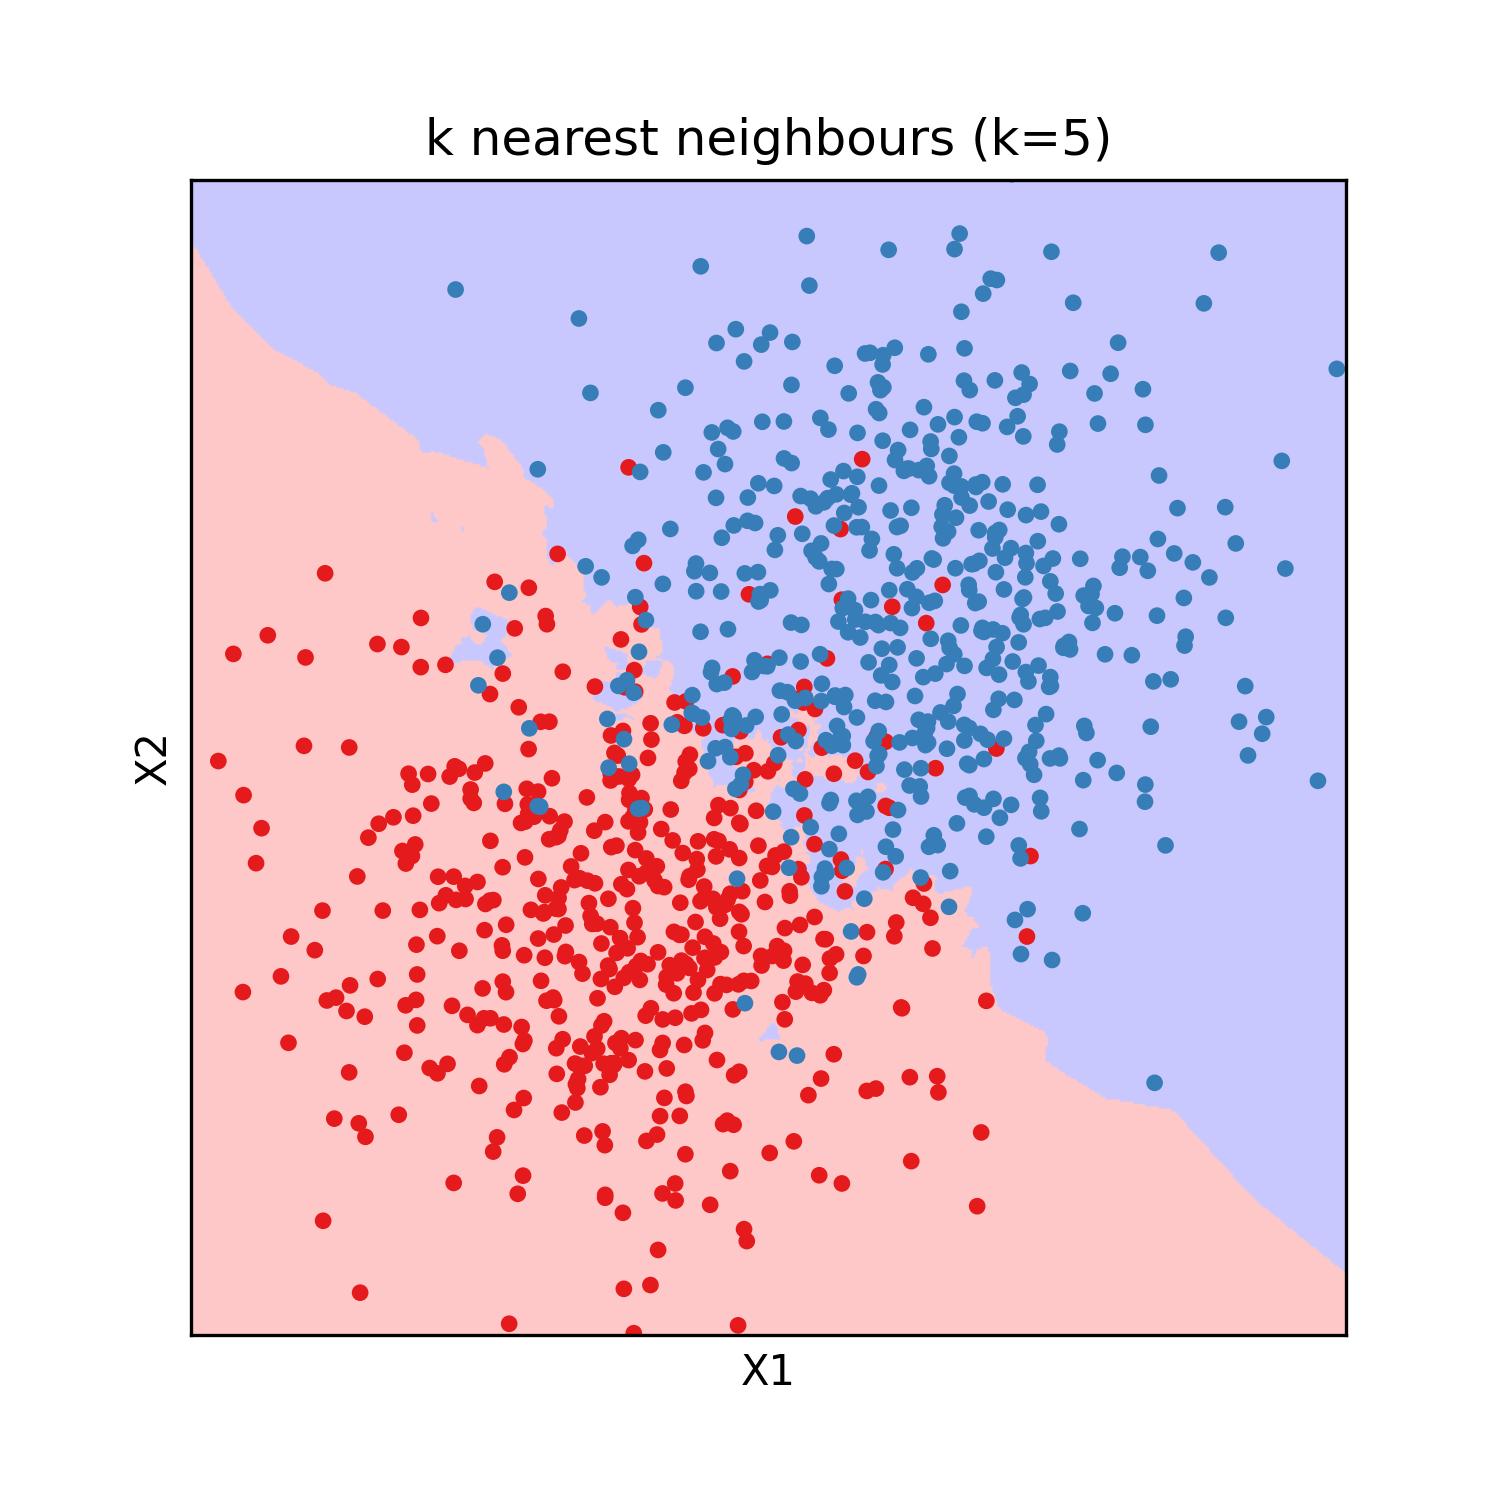
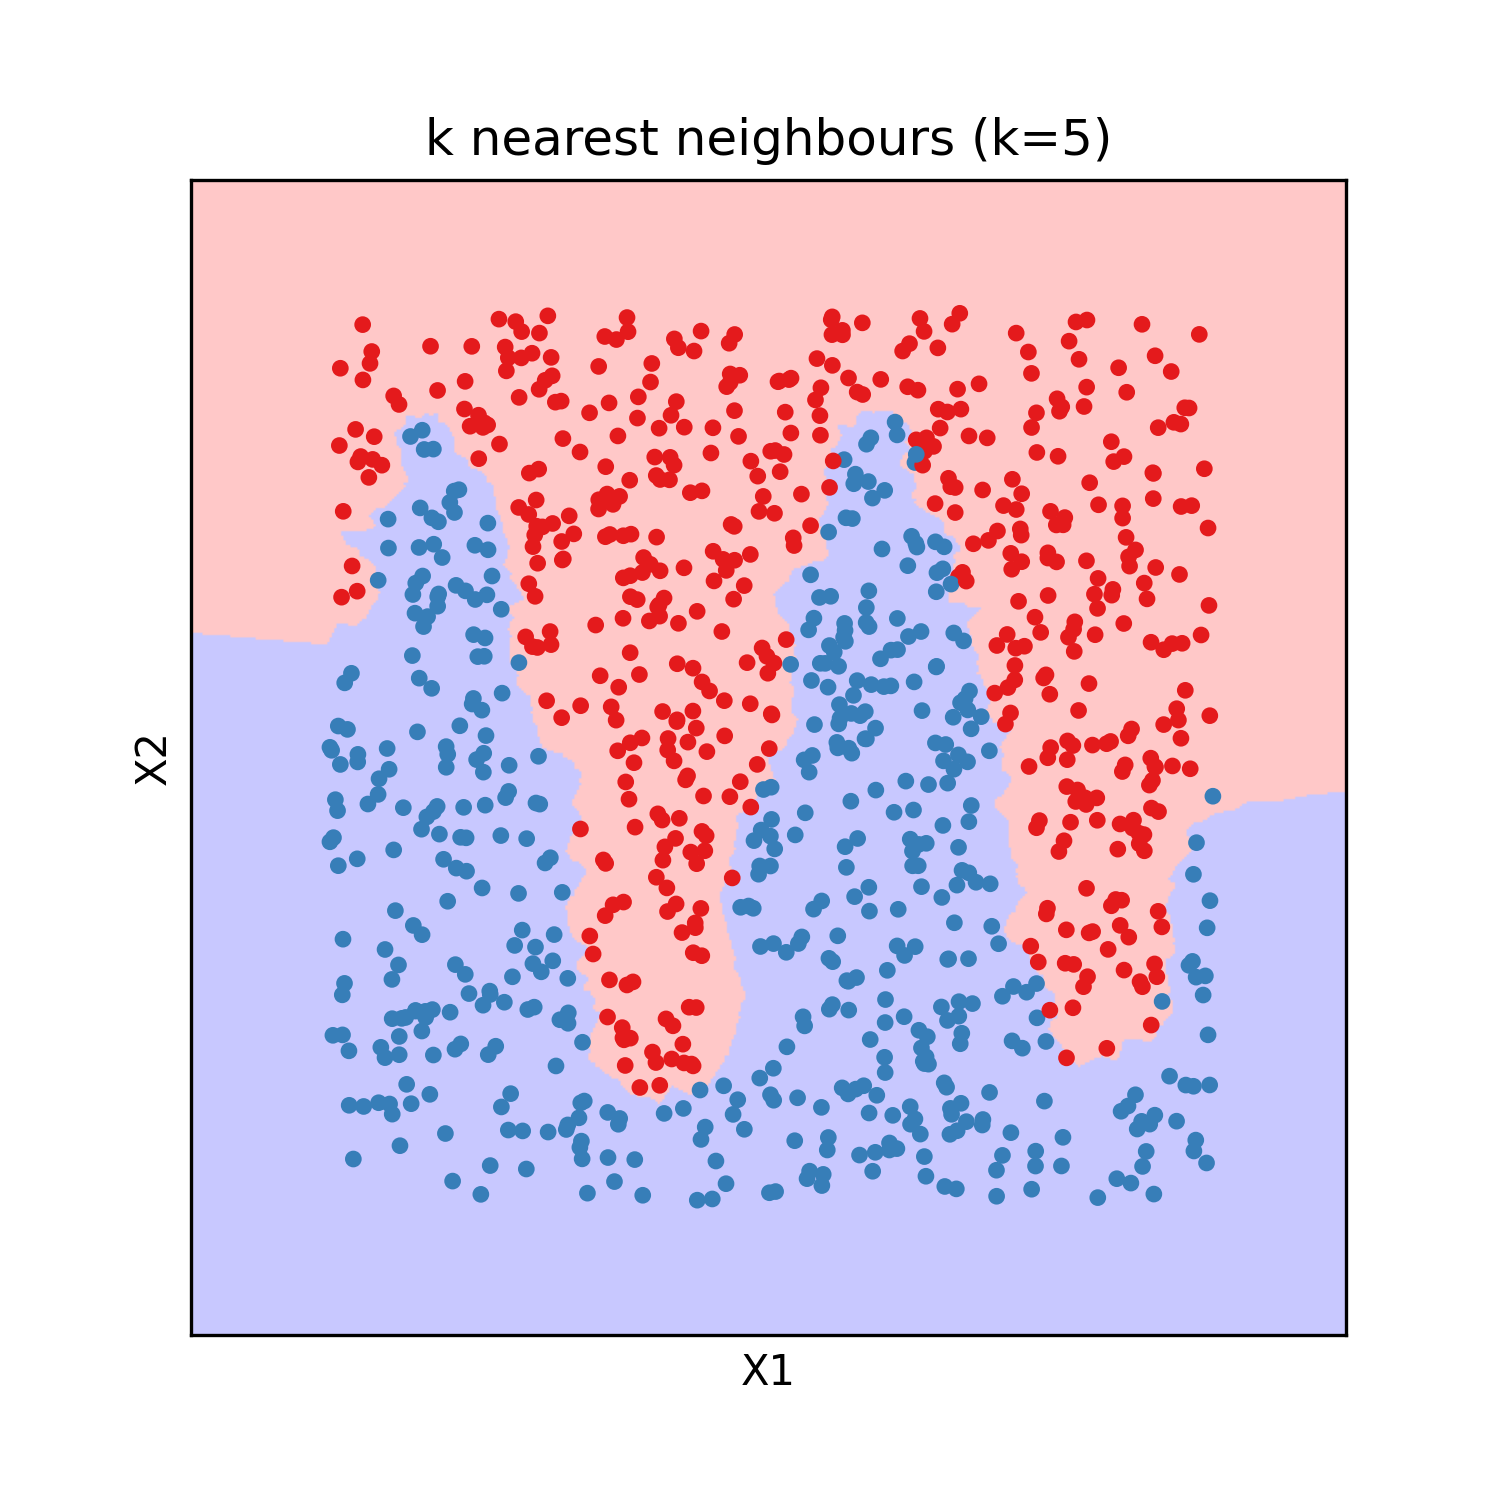
changed classification task

diff --git a/images/neural_network/neural_network.py b/images/neural_network/neural_network.py
@@ -237,14 +237,14 @@ class ClassifierModel(Model):
 model = ClassifierModel(3, 50)
 Xobs, Yobs = classification_data()
 Xobs, Yobs = model.x_as_tensor(Xobs), model.y_as_tensor(Yobs)
-X = np.stack(np.meshgrid(np.linspace(-2, 2, 500), np.linspace(-2, 2, 500)), axis=-1)
+X = np.stack(np.meshgrid(np.linspace(-1.3, 1.3, 500), np.linspace(-1.3, 1.3, 500)), axis=-1)
 
 f = plt.figure(figsize=[5, 5])
 ax = f.add_subplot(111)
 
 files = []
-optimizer = torch.optim.Adam(model.parameters(), lr=1.0E-4)
-for i in range(0, 301):
+optimizer = torch.optim.Adam(model.parameters(), lr=1.0E-3)
+for i in range(0, 401):
     if i % 10 == 0:
         ax.clear()
         Y = model.predict(X.reshape(-1, 2)).reshape(X.shape[:2])
@@ -253,10 +253,10 @@ for i in range(0, 301):
         G = np.zeros(Y.shape)
         image = np.stack([R, G, B], axis=-1)
         image = (image * 55 + [[[200, 200, 200]]]).astype("uint8")
-        ax.imshow(image, extent=(-2, 2, -2, 2), origin="lower")
+        ax.imshow(image, extent=(-1.3, 1.3, -1.3, 1.3), origin="lower")
         ax.scatter(Xobs[..., 0], Xobs[..., 1], c=[mpl.cm.Set1.colors[int(i)] for i in Yobs], marker=".")
-        ax.set_xlim([-2, 2])
-        ax.set_ylim([-2, 2])
+        ax.set_xlim([-1.3, 1.3])
+        ax.set_ylim([-1.3, 1.3])
         ax.set_xticks([])
         ax.set_yticks([])
         ax.set_xlabel("X1")

diff --git a/images/gradient_boosting/gradient_boosting.py b/images/gradient_boosting/gradient_boosting.py
@@ -47,7 +47,7 @@ f.savefig(path / "gradient_boosting.png", transparent=True, dpi=300)
 # regression
 
 Xobs, Yobs = regression_data()
-X = np.stack(np.meshgrid(np.linspace(-1, 1, 100), np.linspace(-1, 1, 100)), axis=-1)
+X = np.stack(np.meshgrid(np.linspace(-1.3, 1.3, 100), np.linspace(-1.3, 1.3, 100)), axis=-1)
 
 f = plt.figure(figsize=[5, 5])
 ax = f.add_subplot(111, projection="3d")
@@ -100,10 +100,10 @@ for i in [1]+list(range(10, 301, 10)):
     image = np.stack([R, G, B], axis=-1)
     image = (image * 55 + [[[200, 200, 200]]]).astype("uint8")
 
-    ax.imshow(image, extent=(-2, 2, -2, 2), origin="lower")
+    ax.imshow(image, extent=(-1.3, 1.3, -1.3, 1.3), origin="lower")
     ax.scatter(Xobs[..., 0], Xobs[..., 1], c=[mpl.cm.Set1.colors[i] for i in Yobs], marker=".")
-    ax.set_xlim([-2, 2])
-    ax.set_ylim([-2, 2])
+    ax.set_xlim([-1.3, 1.3])
+    ax.set_ylim([-1.3, 1.3])
     ax.set_xticks([])
     ax.set_yticks([])
     ax.set_xlabel("X1")

diff --git a/images/models_data.py b/images/models_data.py
@@ -17,8 +17,11 @@ def regression_data() -> Tuple[np.ndarray, np.ndarray]:
 
 
 def classification_data() -> Tuple[np.ndarray, np.ndarray]:
-    Xa = np.random.multivariate_normal([-0.5, -0.5], [[0.3, 0.], [0., 0.3]], size=500)
-    Xb = np.random.multivariate_normal([0.5, 0.5], [[0.3, 0.], [0., 0.3]], size=500)
-    Xobs = np.concatenate([Xa, Xb], axis=0)
-    Yobs = np.concatenate([np.zeros(len(Xa), dtype=int), np.ones(len(Xb), dtype=int)])
-    return Xobs, Yobs
+    # Xa = np.random.multivariate_normal([-0.5, -0.5], [[0.3, 0.], [0., 0.3]], size=500)
+    # Xb = np.random.multivariate_normal([0.5, 0.5], [[0.3, 0.], [0., 0.3]], size=500)
+    # Xobs = np.concatenate([Xa, Xb], axis=0)
+    # Yobs = np.concatenate([np.zeros(len(Xa), dtype=int), np.ones(len(Xb), dtype=int)])
+    # return Xobs, Yobs
+    X = np.random.uniform(-1, 1, 1000*2).reshape(1000, 2)
+    Y = (X[:, 1] < 0.8 * np.sin(2*np.pi * X[:, 0])).astype(int)
+    return X, Y

diff --git a/images/gif_decision_tree/decision_tree.py b/images/gif_decision_tree/decision_tree.py
@@ -31,7 +31,7 @@ f.savefig(path / "decision_tree.png", transparent=True, dpi=300)
 # regression
 
 Xobs, Yobs = regression_data()
-X = np.stack(np.meshgrid(np.linspace(-1, 1, 100), np.linspace(-1, 1, 100)), axis=-1)
+X = np.stack(np.meshgrid(np.linspace(-1.3, 1.3, 100), np.linspace(-1.3, 1.3, 100)), axis=-1)
 
 f = plt.figure(figsize=[10, 5])
 ax = f.add_subplot(121, projection="3d")
@@ -89,10 +89,10 @@ for i in range(1, 21):
     image = np.stack([R, G, B], axis=-1)
     image = (image * 55 + [[[200, 200, 200]]]).astype("uint8")
 
-    ax.imshow(image, extent=(-2, 2, -2, 2), origin="lower")
+    ax.imshow(image, extent=(-1.3, 1.3, -1.3, 1.3), origin="lower")
     ax.scatter(Xobs[..., 0], Xobs[..., 1], c=[mpl.cm.Set1.colors[i] for i in Yobs], marker=".")
-    ax.set_xlim([-2, 2])
-    ax.set_ylim([-2, 2])
+    ax.set_xlim([-1.3, 1.3])
+    ax.set_ylim([-1.3, 1.3])
     ax.set_xticks([])
     ax.set_yticks([])
     ax.set_xlabel("X1")

diff --git a/images/k_nearest_neighbours/k_nearest_neighbours.py b/images/k_nearest_neighbours/k_nearest_neighbours.py
@@ -79,7 +79,7 @@ f, ax = plt.subplots(figsize=[5, 5])
 Xobs, Yobs = classification_data()
 is_b = Yobs.astype(bool)
 Xa, Xb = Xobs[~is_b], Xobs[is_b]
-X = np.stack(np.meshgrid(np.linspace(-2, 2, 500), np.linspace(-2, 2, 500)), axis=-1)
+X = np.stack(np.meshgrid(np.linspace(-1.3, 1.3, 500), np.linspace(-1.3, 1.3, 500)), axis=-1)
 k = 5
 Y = model(X.reshape(-1, 2), Xobs, Yobs, k=k).reshape(X.shape[:2])
 
@@ -89,10 +89,10 @@ G = np.zeros(Y.shape)
 image = np.stack([R, G, B], axis=-1)
 image = (image * 55 + [[[200, 200, 200]]]).astype("uint8")
 
-ax.imshow(image, extent=(-2, 2, -2, 2), origin="lower")
+ax.imshow(image, extent=(-1.3, 1.3, -1.3, 1.3), origin="lower")
 ax.scatter(Xobs[..., 0], Xobs[..., 1], c=[mpl.cm.Set1.colors[int(i)] for i in Yobs], marker=".")
-ax.set_xlim([-2, 2])
-ax.set_ylim([-2, 2])
+ax.set_xlim([-1.3, 1.3])
+ax.set_ylim([-1.3, 1.3])
 ax.set_xticks([])
 ax.set_yticks([])
 ax.set_xlabel("X1")
